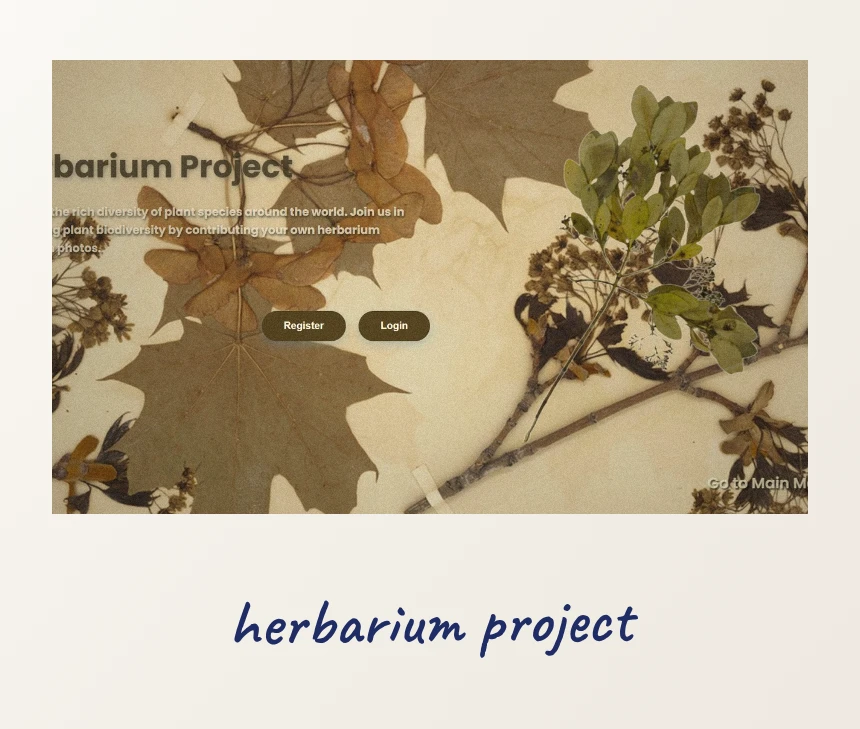
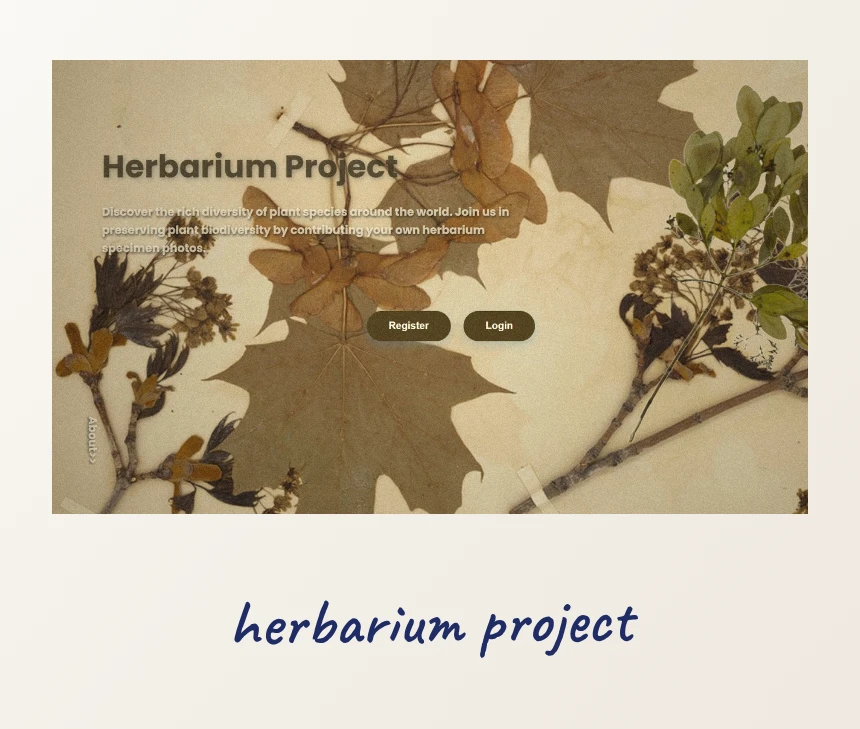
Fix project card textures the critics kept noting
kacha's camera fills its frame; HaoJia and PetAid get a halftone band
below the text (it no longer collides), a misregistered title and a
handwritten lip; the herbarium crop anchors left so its title reads.

Claude-Session: https://claude.ai/code/session_016nJieuj3hz1PRLzcMUTyK7

diff --git a/tools/bake/manifest.js b/tools/bake/manifest.js
@@ -131,8 +131,11 @@ const badge = (big, small, { size = 420, ink = '#ff48b0', paper = '#fff3f9', big
   return canvas;
 };
 
-// A project card made of type alone, for projects with no screenshot yet.
-const typeCard = (title, lines, { width = 900, ratio = 0.62, ink = '#0078bf', accent = '#ff48b0', seed = 91 } = {}) => {
+// A project card made of type alone, for projects with no screenshot yet:
+// a riso-printed title card on instant-photo stock, with a handwritten lip.
+const typeCard = (title, lines, {
+  width = 900, ratio = 0.62, ink = '#0078bf', accent = '#ff48b0', caption = '', seed = 91,
+} = {}) => {
   const side = Math.round(width * 0.06);
   const top = Math.round(width * 0.07);
   const bottom = Math.round(width * 0.25);
@@ -146,15 +149,41 @@ const typeCard = (title, lines, { width = 900, ratio = 0.62, ink = '#0078bf', ac
   ictx.fillStyle = '#f6f1e6';
   ictx.fillRect(0, 0, inner.width, inner.height);
   ictx.globalCompositeOperation = 'multiply';
+  // The accent band sits below the last line of text, never under it.
+  const textBottom = 232 + (lines.length - 1) * 56 + 22;
+  const bandTop = Math.max(textBottom + 34, Math.round(inner.height * 0.74));
   ictx.fillStyle = accent;
-  ictx.fillRect(0, inner.height * 0.62, inner.width, inner.height * 0.38);
+  ictx.fillRect(0, bandTop, inner.width, inner.height - bandTop);
+  const rand = random(seed);
   ictx.fillStyle = ink;
+  for (let y = bandTop + 8; y < inner.height; y += 9) {
+    for (let x = 6 + ((y / 9) % 2) * 4.5; x < inner.width; x += 9) {
+      ictx.beginPath();
+      ictx.arc(x, y, 1.1 + rand() * 0.6, 0, Math.PI * 2);
+      ictx.fill();
+    }
+  }
+  // Title with a little misregistration, the way the opening's "Liew" sits.
   ictx.font = '800 108px "Bricolage Grotesque"';
+  ictx.fillStyle = accent;
+  ictx.fillText(title, 50, 154);
+  ictx.fillStyle = ink;
   ictx.fillText(title, 46, 150);
   ictx.font = '600 40px "JetBrains Mono"';
   lines.forEach((line, i) => ictx.fillText(line.toUpperCase(), 50, 232 + i * 56));
   ictx.globalCompositeOperation = 'source-over';
   ctx.drawImage(inner, side, top);
+  if (caption) {
+    ctx.save();
+    ctx.translate(width / 2, top + ih + bottom * 0.52);
+    ctx.rotate((rand() - 0.5) * 0.04);
+    ctx.fillStyle = INK;
+    ctx.font = CAPTION;
+    ctx.textAlign = 'center';
+    ctx.textBaseline = 'middle';
+    ctx.fillText(caption, 0, 0);
+    ctx.restore();
+  }
   return canvas;
 };
 
@@ -403,10 +432,10 @@ export const TEXTURES = {
   // --- projects
   'card-spex': { make: (p) => instant(p, 'spexMap', 'SPEX: catch it in the animals', { ratio: 0.7, seed: 101 }) },
   'card-buildup': { make: (p) => instant(p, 'pitch', 'BuildUp at URIIS 2026', { ratio: 0.66, pose: { zoom: 1.15, focusX: 0.52, focusY: 0.42 }, seed: 102 }) },
-  'card-kacha': { make: (p) => instant(p, 'kacha', 'kacha! a photobooth', { ratio: 1.0, seed: 103 }) },
-  'card-haojia': { make: () => typeCard('HaoJia HR', ['teams · outlets · workers', 'work-pass expiry alerts', 'phase one, in progress'], { seed: 104 }) },
-  'card-petaid': { make: () => typeCard('PetAid', ['first aid for pets', 'owners · vets · admins', 'react + express'], { ink: '#ff48b0', accent: '#0078bf', seed: 105 }) },
-  'card-herbarium': { make: (p) => instant(p, 'herbarium', 'herbarium project', { ratio: 0.6, seed: 106 }) },
+  'card-kacha': { make: (p) => instant(p, 'kacha', 'kacha! a photobooth', { ratio: 1.0, pose: { zoom: 1.9 }, seed: 103 }) },
+  'card-haojia': { make: () => typeCard('HaoJia HR', ['teams · outlets · workers', 'work-pass expiry alerts', 'phase one, in progress'], { caption: 'haojia hr, still building', seed: 104 }) },
+  'card-petaid': { make: () => typeCard('PetAid', ['first aid for pets', 'owners · vets · admins', 'react + express'], { ink: '#ff48b0', accent: '#0078bf', caption: 'petaid', seed: 105 }) },
+  'card-herbarium': { make: (p) => instant(p, 'herbarium', 'herbarium project', { ratio: 0.6, pose: { focusX: 0 }, seed: 106 }) },
   'card-aws': { make: (p) => instant(p, 'aws', 'AWS, drawn properly', { ratio: 0.8, seed: 107 }) },
   'card-bar': { make: (p) => instant(p, 'bar', 'Bar: drinks shop', { ratio: 0.62, seed: 108 }) },
   'card-lemon': { make: (p) => instant(p, 'lemon', 'little lemon', { ratio: 0.62, seed: 109 }) },
